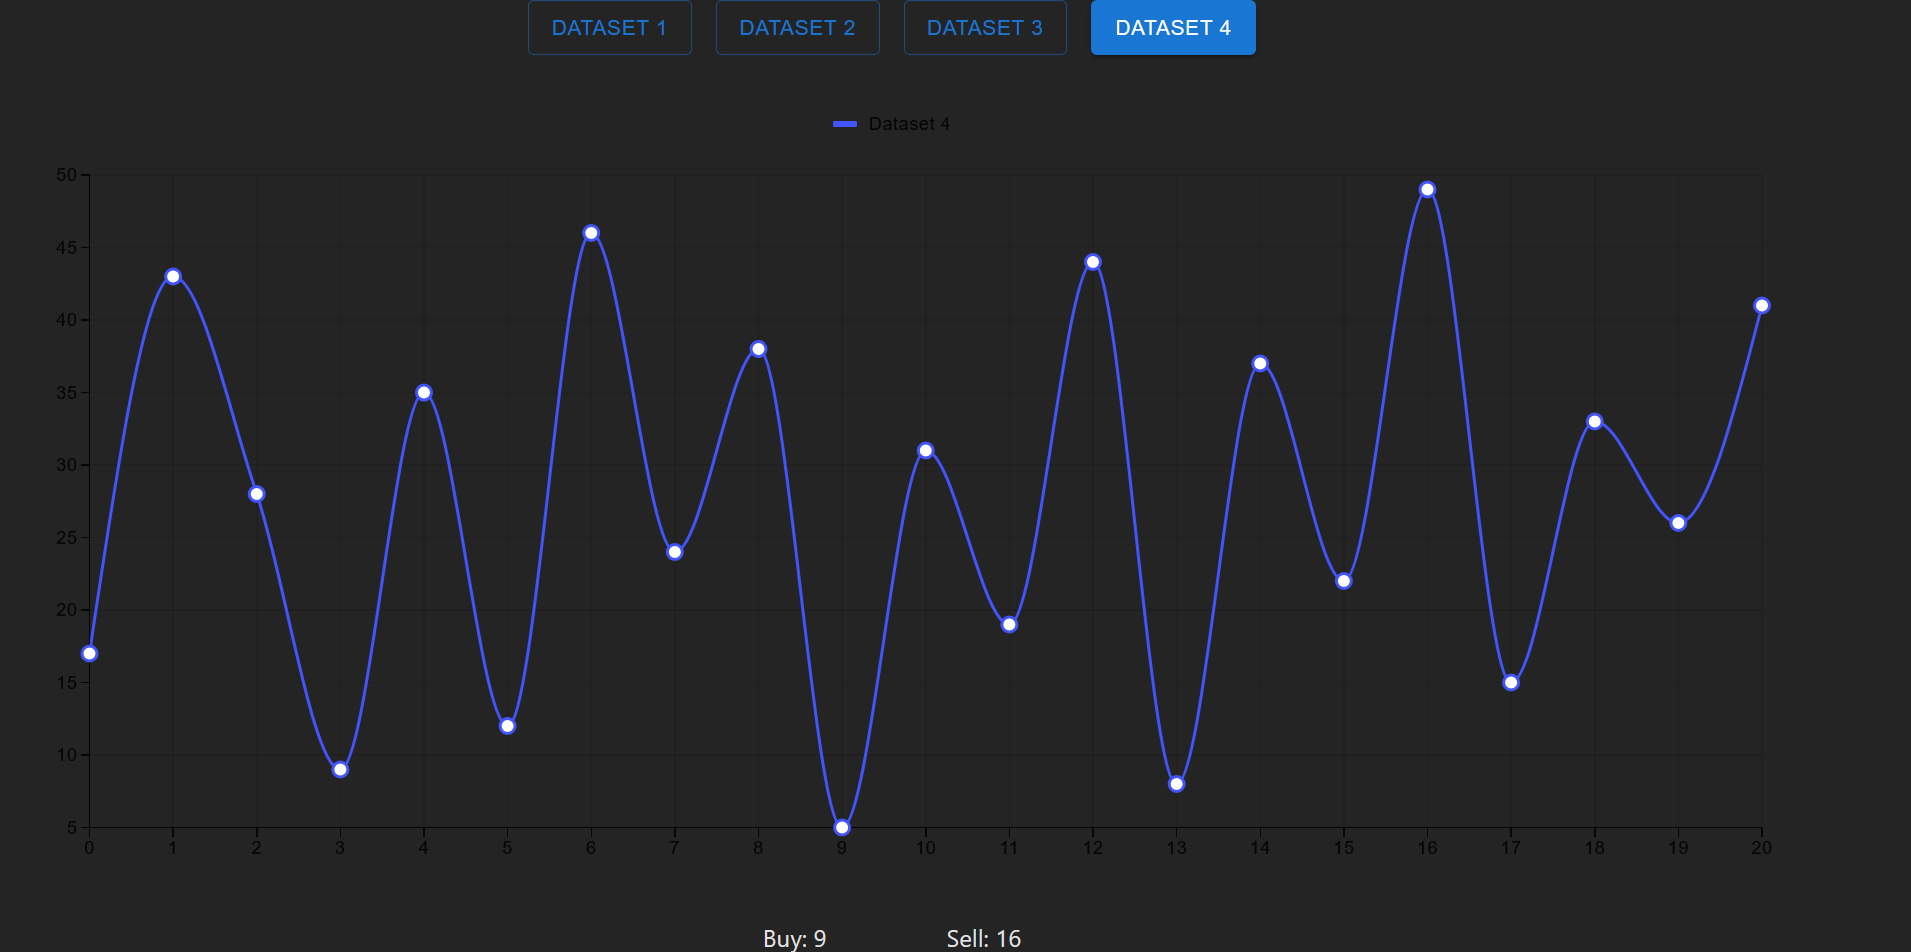
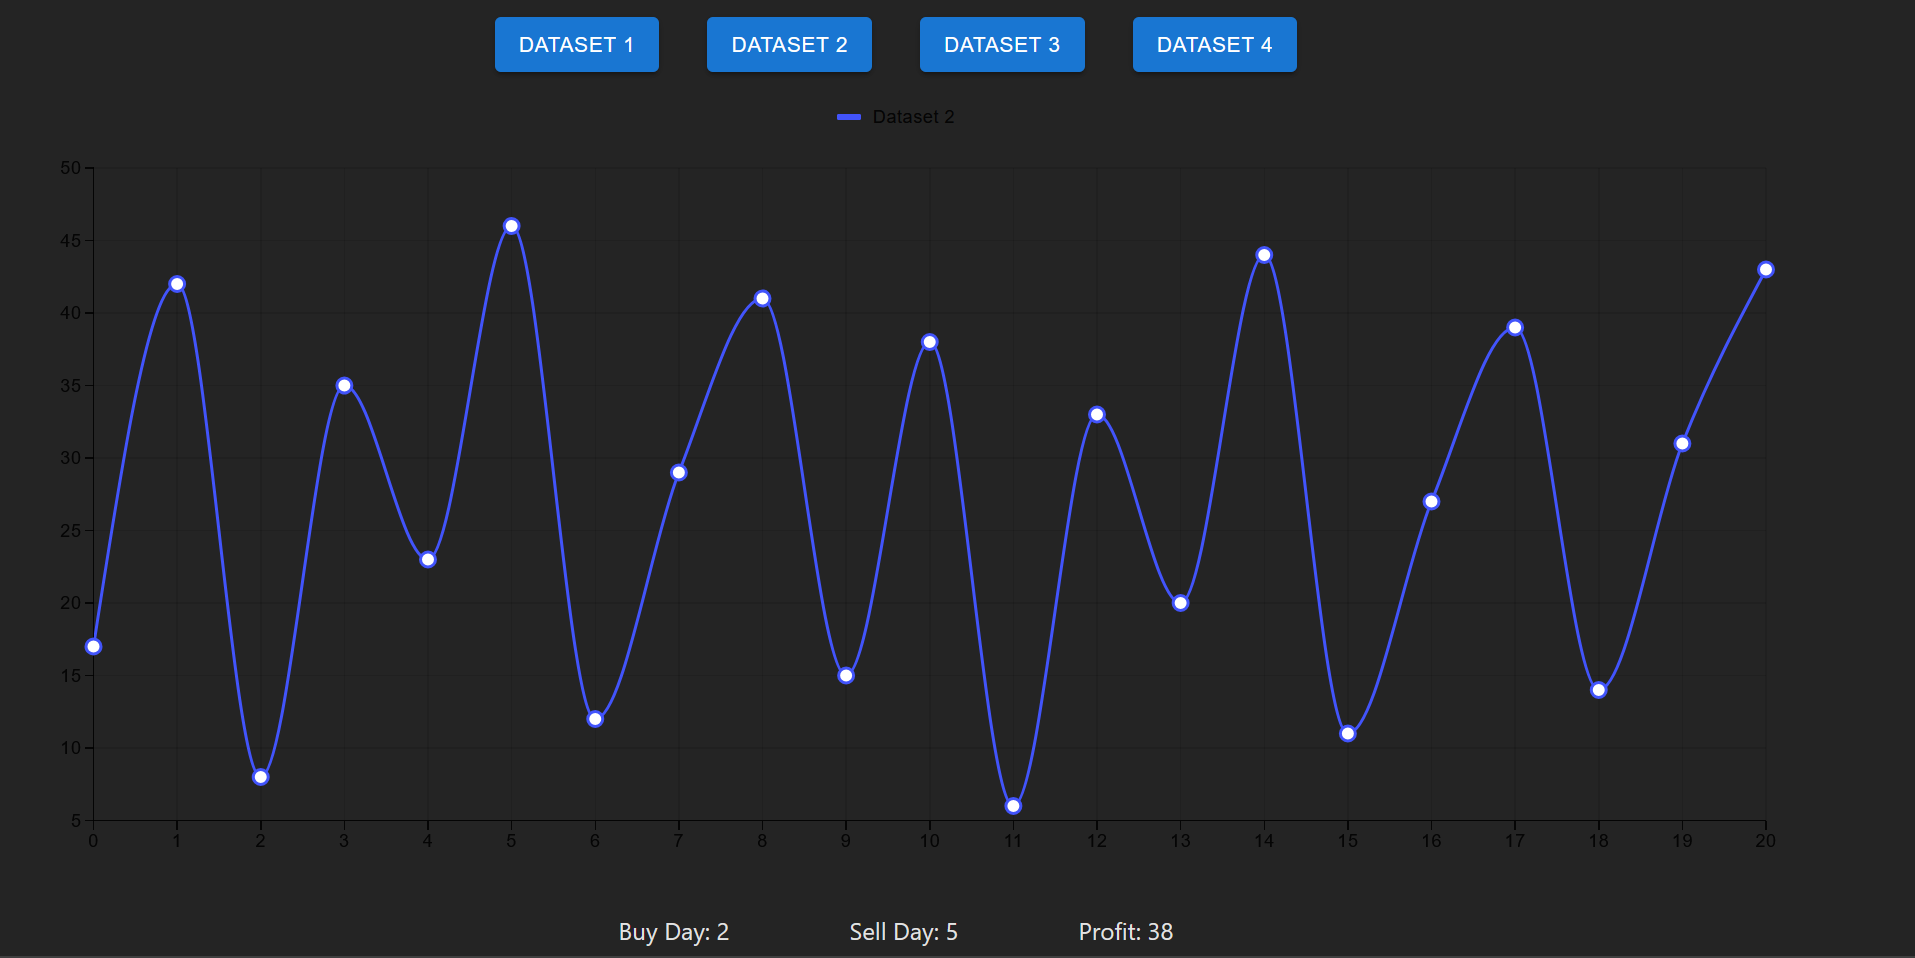
name spacing

diff --git a/ui/src/App.tsx b/ui/src/App.tsx
@@ -14,6 +14,7 @@ interface Dataset {
 interface Profit {
     buyDay: number;
     sellDay: number;
+    profit: number;
 }
 
 function App() {
@@ -23,6 +24,7 @@ function App() {
     const [dataset, setDataset] = useState(1);
     const [buyDay, setBuyDay] = useState(0);
     const [sellDay, setSellDay] = useState(0);
+    const [profit, setProfit] = useState(0);
 
     const fetchDataset = async (dataset: number) => {
         setLoading(true);
@@ -57,6 +59,7 @@ function App() {
 
             setBuyDay(data.buyDay);
             setSellDay(data.sellDay);
+            setProfit(data.profit);
         } catch (err) {
             setError(err instanceof Error ? err.message : 'An error occurred');
         } finally {
@@ -69,7 +72,7 @@ function App() {
         fetchProfit(dataset);
     }, [dataset]);
 
-    const handleLevelChange = (level: number) => {
+    const handleDatasetChange = (level: number) => {
         setDataset(level);
     };
 
@@ -98,14 +101,14 @@ function App() {
         <>
             <Grid container direction="column" spacing={2}>
                 <Grid size={12}>
-                    <Box display="flex" justifyContent="center" gap={2} mb={2}>
-                        {[1, 2, 3, 4].map(level => (
+                    <Box display="flex" justifyContent="center" gap={4} mt={1}>
+                        {[1, 2, 3, 4].map(dataset => (
                             <Button
-                                key={level}
-                                variant={dataset === level ? "contained" : "outlined"}
-                                onClick={() => handleLevelChange(level)}
+                                key={dataset}
+                                variant={dataset === dataset ? "contained" : "outlined"}
+                                onClick={() => handleDatasetChange(dataset)}
                             >
-                                Dataset {level}
+                                Dataset {dataset}
                             </Button>
                         ))}
                     </Box>
@@ -130,12 +133,19 @@ function App() {
                         )}
                     </Box>
                 </Grid>
-                <Grid display="flex" justifyContent="center" alignItems="center" spacing={10} container>
+                <Grid display="flex"
+                      justifyContent="center"
+                      alignItems="center"
+                      spacing={10}
+                      container>
                     <Grid>
-                        Buy: {buyDay}
+                        Buy Day: {buyDay}
                     </Grid>
                     <Grid>
-                        Sell: {sellDay}
+                        Sell Day: {sellDay}
+                    </Grid>
+                    <Grid>
+                        Profit: {profit}
                     </Grid>
                 </Grid>
             </Grid>

diff --git a/src/main/java/com/github/mangila/profit/DatasetService.java b/src/main/java/com/github/mangila/profit/DatasetService.java
@@ -11,6 +11,7 @@ import java.util.Map;
 public class DatasetService {
 
     private final ThreadLocal<Integer> sellDay = ThreadLocal.withInitial(() -> -1);
+    private final ThreadLocal<Integer> maxProfit = ThreadLocal.withInitial(() -> -1);
 
     public Price getPriceOnDay(int dataset, int day) {
         return Application.CACHE.get(dataset).data().stream()
@@ -27,7 +28,7 @@ public class DatasetService {
     }
 
     public MaxProfit getMaximumProfit(int dataset) {
-        return new MaxProfit(getBuyDay(dataset), getSellDay());
+        return new MaxProfit(getBuyDay(dataset), getSellDay(), getMaxProfit());
     }
 
     /**
@@ -65,6 +66,7 @@ public class DatasetService {
                     maximumProfit = profit;
                     buyDay = currentDay.day().value();
                     sellDay.set(closingDay.day().value());
+                    maxProfit.set(maximumProfit);
                 }
             }
         }
@@ -87,5 +89,12 @@ public class DatasetService {
             throw new IllegalStateException("No sell day found");
         }
         return sellDay.get();
+    }
+
+    private int getMaxProfit() {
+        if (maxProfit.get() == -1) {
+            throw new IllegalStateException("No profit found");
+        }
+        return maxProfit.get();
     }
 }

diff --git a/src/main/java/com/github/mangila/profit/MaxProfit.java b/src/main/java/com/github/mangila/profit/MaxProfit.java
@@ -1,4 +1,4 @@
 package com.github.mangila.profit;
 
-public record MaxProfit(int buyDay, int sellDay) {
+public record MaxProfit(int buyDay, int sellDay, int profit) {
 }
